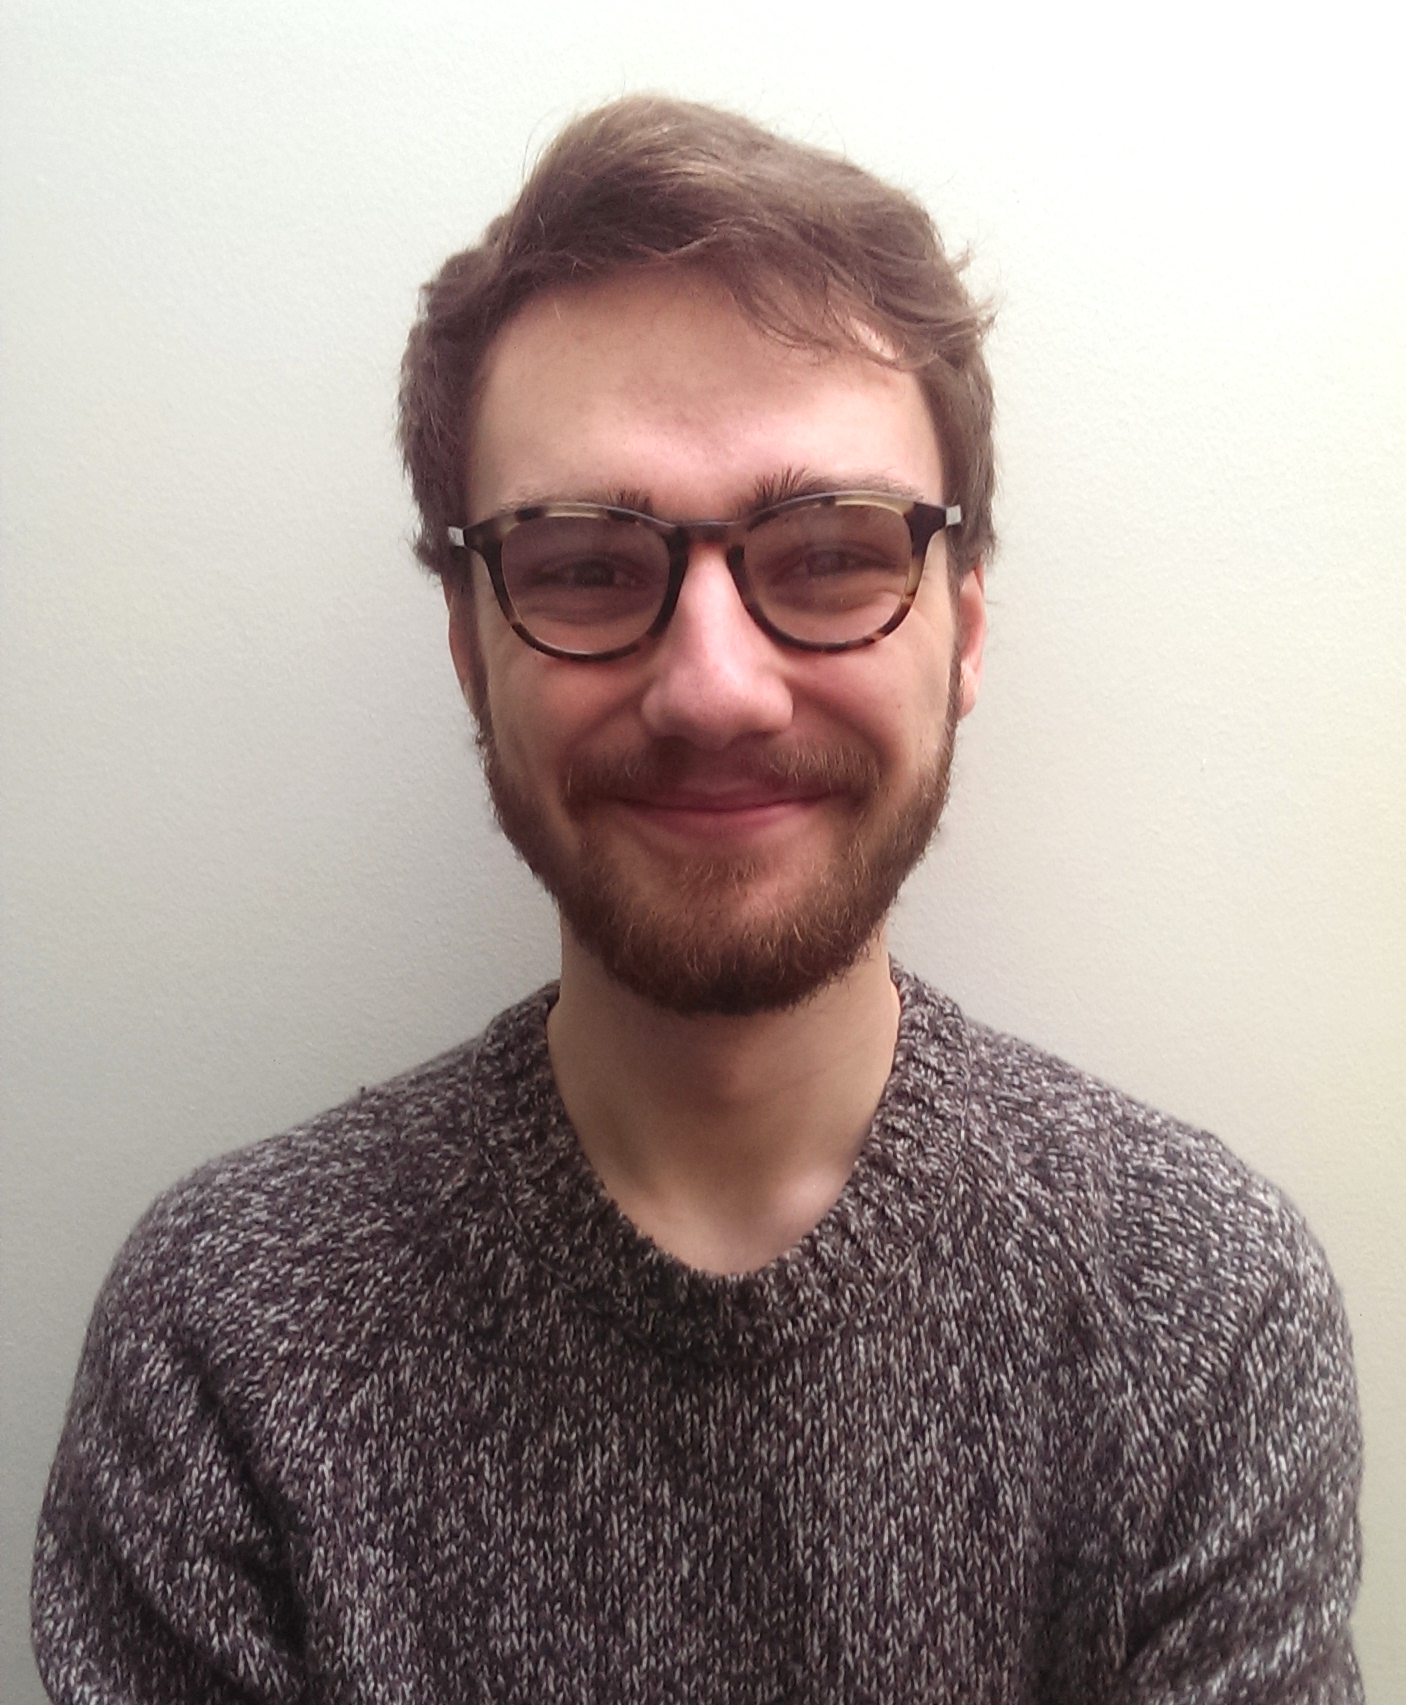
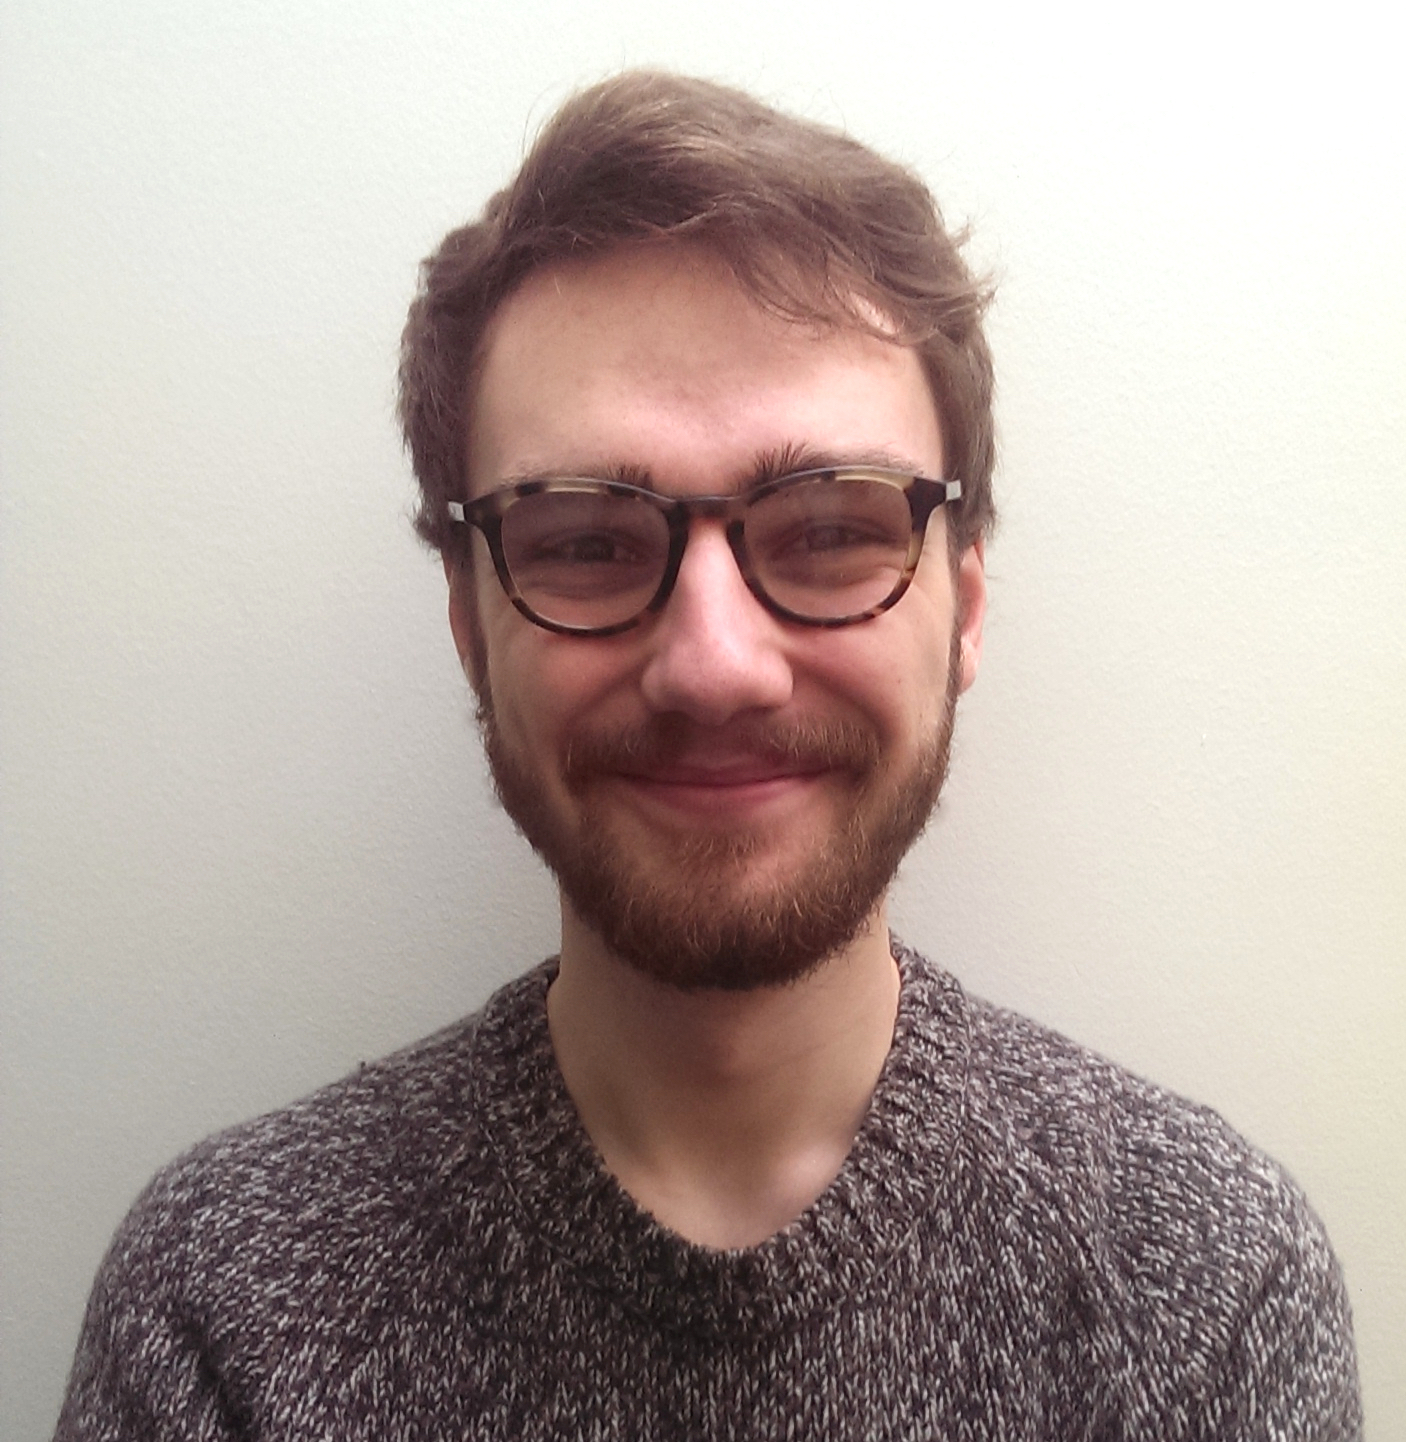
more text updates and change a few pics

diff --git a/bio.html b/bio.html
@@ -17,10 +17,11 @@ layout: default
             <div class="6u"
                 <section>
                     <p>I am a postgraduate student at the University of Oxford studying for an MPhil in Politics (Comparative Government).
-                    I also studied at Oxford as an undergraduate, and read for a degree in Philosophy, Politics and Economics.</p>
-                    <p>During my time at university as an undergrad, I worked on the student newspaper <i>Cherwell</i> as Comment Editor and subsequently on the senior editorial team (Trinity 2015).</p>
-                    <p>Outside of University, I am a keen road cyclist. I regularly take part in sportives, and have a particular passion for hill climbing!
-                    My blog tends to be about cycling and routes in the Oxfordshire/Buckinghamshire area and the South Downs.</p>
+                      I am also a part-time research assistant for the Centre for Experimental Social Science (CESS) at Nuffield College under Professor Raymond Duch.</p>
+                    <p> Prior to the MPhil, I read Philosophy, Politics and Economics at Oxford and graduated in July 2016. Throughout my time at Oxford, I've been a member of St Anne's College.</p>
+                    <p>Outside of University, I am also a keen road cyclist. I regularly take part in sportives, and have a particular passion for hill climbing!
+                    My blog tends to be about cycling, training and routes in the Oxfordshire/Buckinghamshire area and the South Downs.
+                    My bucket list includes doing a cycle tour along the Silk Road and hiking (at least part of) the Pacific Crest Trail.</p>
                 </section>
               </div>
             </div>

diff --git a/research.html b/research.html
@@ -13,9 +13,10 @@ layout: default
                     <a href="#" class="image fit"><img src="images/research.jpg" alt="" /></a>
                     <h3>Summary</h3>
                     <p>My research focusses on the ballot initiative process in the United States, and how actors across the federal system interact to disrupt the status quo.
-                      My current project is looking at initiative funding, comparing funding levels and sources both within issue groups and across states.
-                    I have spent time conducting fieldwork in Oregon, interviewing ballot initiative proponents and state politicians surrounding the two most recent marijuana legalisation ballot measures (Measures 80 and 91).</p>
+                      I am very interested in how actors leverage the federal structure for policymaking purposes, and the nature of the relationships between levels of government.
                     <p> My latest project is looking at campaign finance contributions on a comparative scale within US ballot initiative races - what type of groups finance campaigns, how much does each group contribute, and are some forms of campaign contributions more effective than others?</p>
+                    <p>Previously, I worked on drug liberalisation policies passed via the initiative process.
+                      With funding from the Rothermere American Institute, I was able to conduct fieldwork in Oregon, interviewing ballot initiative proponents and state politicians surrounding the two most recent marijuana legalisation ballot measures (Measures 80 and 91).</p>
                 </section>
         </div>
         <div class="conference">

diff --git a/index.html b/index.html
@@ -45,21 +45,21 @@ layout: landing-page
 				<div class="container">
 					<div class="row">
 						<div class="6u">
-							<section class="special">
+							<section class="special box">
 								<h3>Bio</h3>
 								<p>I am a postgraduate student at the University of Oxford, reading for an MPhil in Politics.
-									Previously I was also an undergraduate at the University studying Philosophy, Politics and Economics (PPE).
-									Aside from my studies, I am a keen cyclist, musician and American sports fan.</p>
+									I was also an undergraduate at the university where I read Philosophy, Politics and Economics (PPE, 2016).
+									Away from my studies, I am a keen cyclist, musician and American sports fan.</p>
 								<ul class="actions">
 									<li><a href="{{ site.baseurl }}/bio.html" class="button alt">Learn More</a></li>
 								</ul>
 							</section>
 						</div>
 						<div class="6u">
-							<section class="special">
+							<section class="special box">
 								<h3>Research</h3>
-								<p>My interests are predominantly focussed on direct democratic institutions and American federalism.
-									My research focusses on drug liberalisation policy efforts and other citizen-drafted legislation
+								<p>My research interests are predominantly focussed on American federalism and direct democratic institutions.
+									My work focusses on drug liberalisation and other citizen-drafted legislation
 									at the state level to understand how groups challenge the federal status quo in the US.</p>
 								<ul class="actions">
 									<li><a href="{{ site.baseurl }}/research.html" class="button alt">Learn More</a></li>

diff --git a/_includes/footer.html b/_includes/footer.html
@@ -3,7 +3,7 @@
     <div class="container">
         <div class="row double">
             <div class="12u" style="text-align: center;">
-                <h2>Thomas Robinson BA (Oxon)</h2>
+                <h2>Thomas Robinson</h2>
                 <p></p>
                 <ul class="icons">
                     <li><a href="https://twitter.com/nosnibor_mot" class="icon fa-twitter"><span class="label">Twitter</span></a></li>

diff --git a/blog.html b/blog.html
@@ -2,13 +2,10 @@
 layout: default
 ---
 
-<!-- Banner -->
-<section id="banner">
-    <div class="inner">
-        <h2>Blog</h2>
-    </div>
-</section>
 <section id="main" class="wrapper style1">
+  <header class="major">
+      <h2>Blog</h2>
+  </header>
   {% for e in site.external_feed %}
     <h2>{{ e.title }}</h2>
     <p>{{ e.feed_content }}</p>
